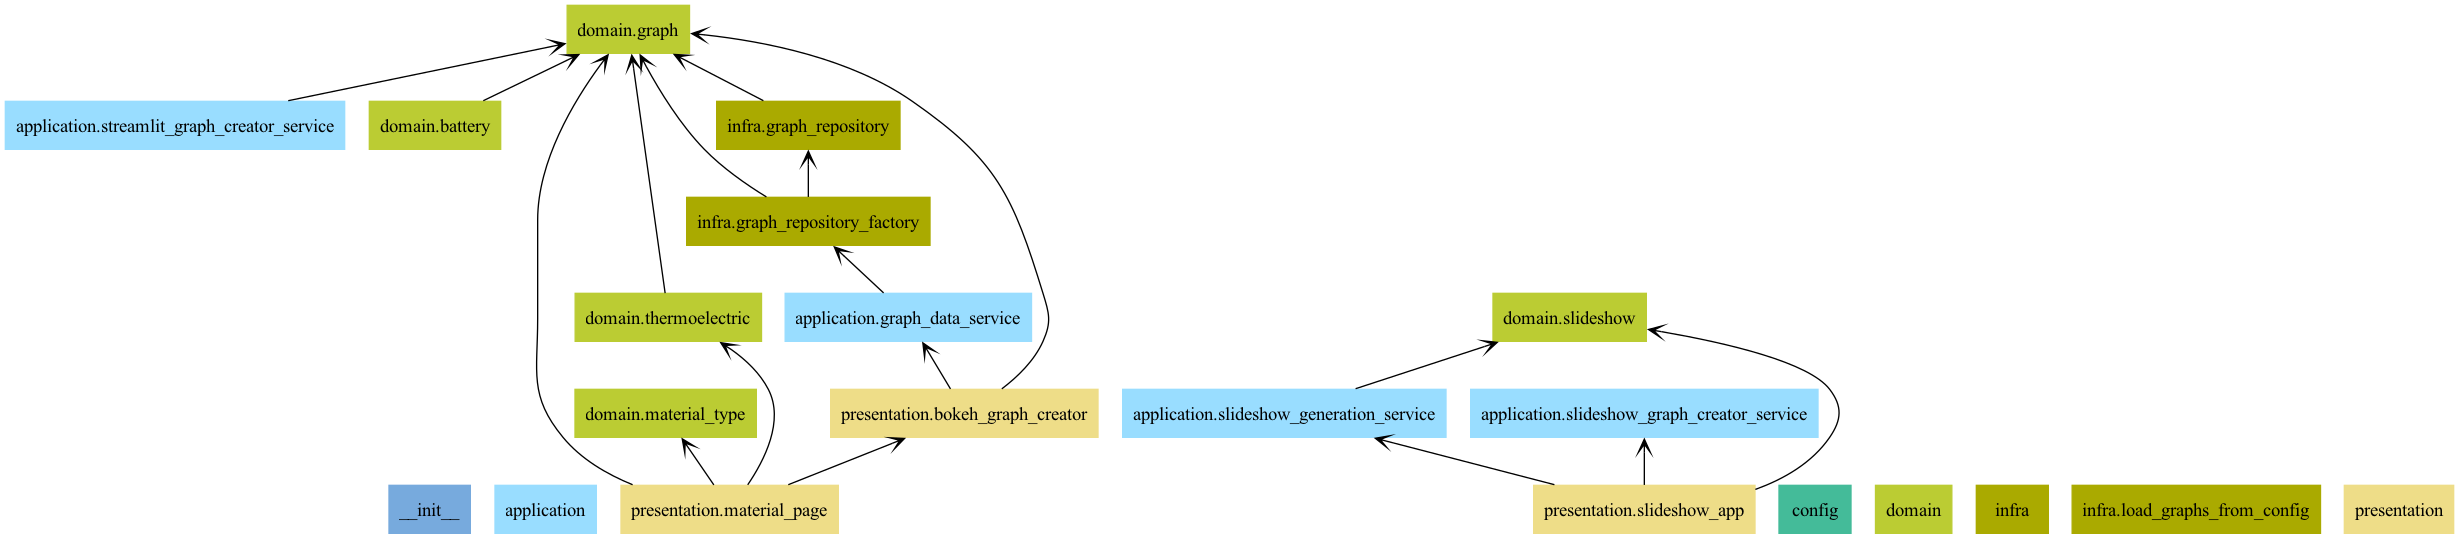
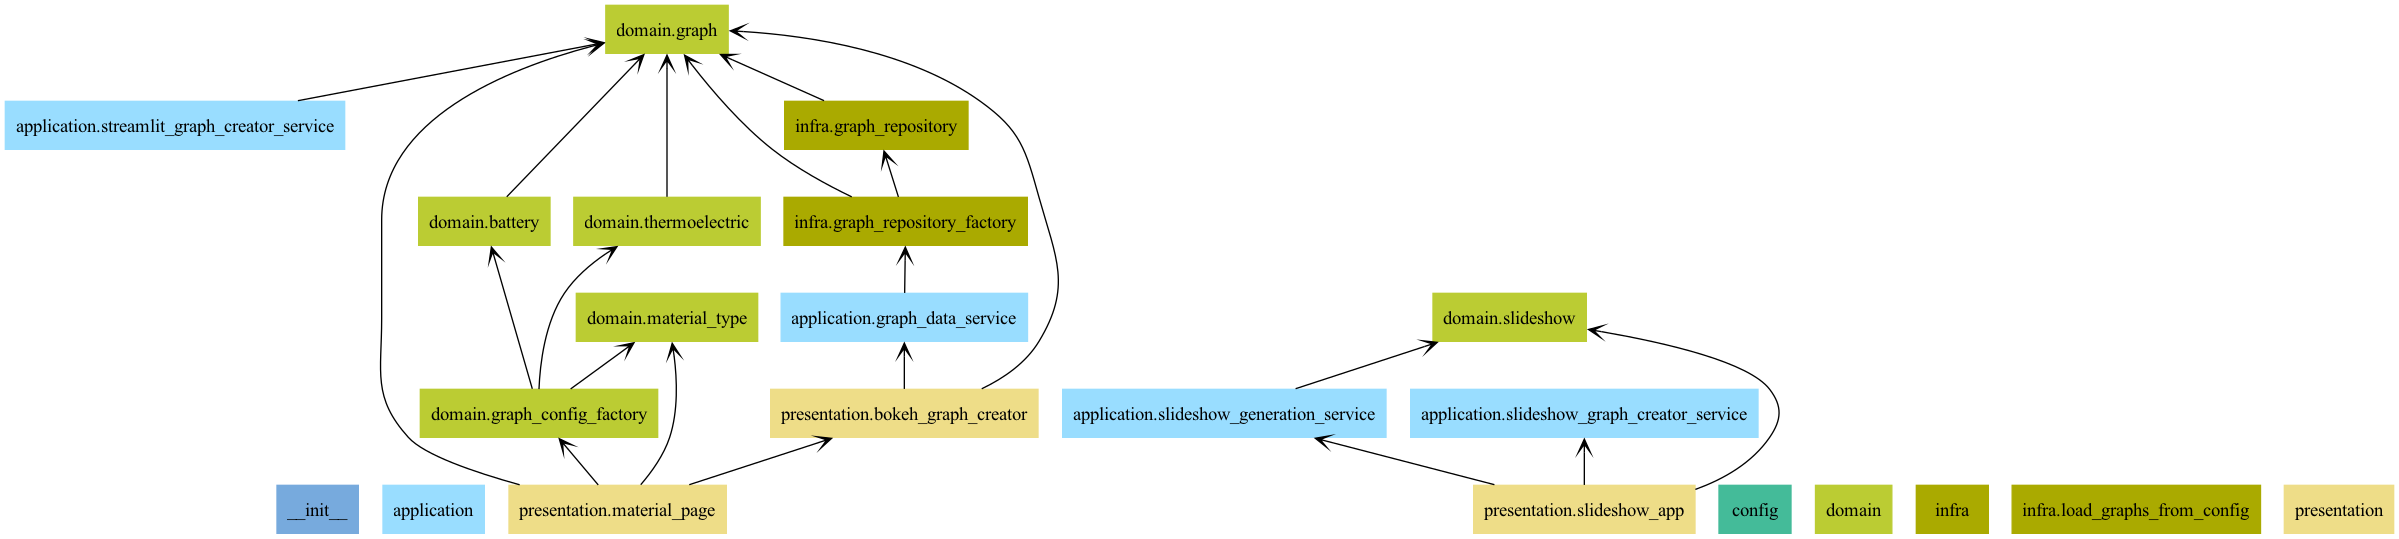
Refactor: use factory function for material graph configs and remove direct dependency on each material type in presentation layer

diff --git a/src/presentation/material_page.py b/src/presentation/material_page.py
@@ -8,13 +8,11 @@ from streamlit_bokeh import streamlit_bokeh
 
 from domain.material_type import MaterialType
 from domain.graph import Axis, AxisRange, AxisType
+from domain.graph_config_factory import get_graph_configs
 
 def main(material_type: MaterialType):
     st.title(f"{material_type.value.capitalize()} material data")
 
-    limit = st.sidebar.number_input(
-        "Limit", min_value=1, max_value=100, value=10, step=1
-    )
     date_from = st.sidebar.date_input("From Date")
     date_to = st.sidebar.date_input("To Date")
 
@@ -28,24 +26,13 @@ def main(material_type: MaterialType):
     if date_from:
         date_from_dt = datetime.datetime.combine(date_from, datetime.time(0, 0, 0))
         date_from_dt = user_timezone.localize(date_from_dt)
-        date_from_str = date_from_dt.isoformat()
-    else:
-        date_from_str = None
 
     if date_to:
         date_to_dt = datetime.datetime.combine(date_to, datetime.time(23, 59, 59))
         date_to_dt = user_timezone.localize(date_to_dt)
-        date_to_str = date_to_dt.isoformat()
-    else:
-        date_to_str = None
 
     # configファイルをPythonファイルから読み込む
-    if material_type.value == MaterialType.THERMOELECTRIC.value:
-        from domain.thermoelectric import THERMOELECTRIC_GRAPHS as CONFIG_GRAPHS
-    elif material_type.value == MaterialType.BATTERY.value:
-        from domain.battery import BATTERY_GRAPHS as CONFIG_GRAPHS
-    else:
-        CONFIG_GRAPHS = []
+    CONFIG_GRAPHS = get_graph_configs(material_type)
 
     graph_options = [(g.x_axis.property, g.y_axis.property) for g in CONFIG_GRAPHS]
 

diff --git a/src/tests/domain/test_graph_config_factory.py b/src/tests/domain/test_graph_config_factory.py
@@ -1,0 +1,17 @@
+import pytest
+from domain.graph_config_factory import get_graph_configs
+from domain.material_type import MaterialType
+from domain.thermoelectric import THERMOELECTRIC_GRAPHS
+from domain.battery import BATTERY_GRAPHS
+
+def test_get_graph_configs_thermoelectric():
+    result = get_graph_configs(MaterialType.THERMOELECTRIC)
+    assert result == THERMOELECTRIC_GRAPHS
+
+def test_get_graph_configs_battery():
+    result = get_graph_configs(MaterialType.BATTERY)
+    assert result == BATTERY_GRAPHS
+
+def test_get_graph_configs_unknown():
+    with pytest.raises(ValueError):
+        get_graph_configs(object()) # type: ignore

diff --git a/src/domain/graph_config_factory.py b/src/domain/graph_config_factory.py
@@ -1,0 +1,11 @@
+from domain.material_type import MaterialType
+from domain.thermoelectric import THERMOELECTRIC_GRAPHS
+from domain.battery import BATTERY_GRAPHS
+
+def get_graph_configs(material_type: MaterialType):
+    if material_type == MaterialType.THERMOELECTRIC:
+        return THERMOELECTRIC_GRAPHS
+    elif material_type == MaterialType.BATTERY:
+        return BATTERY_GRAPHS
+    else:
+        raise ValueError(f"Unknown material type: {material_type}")
